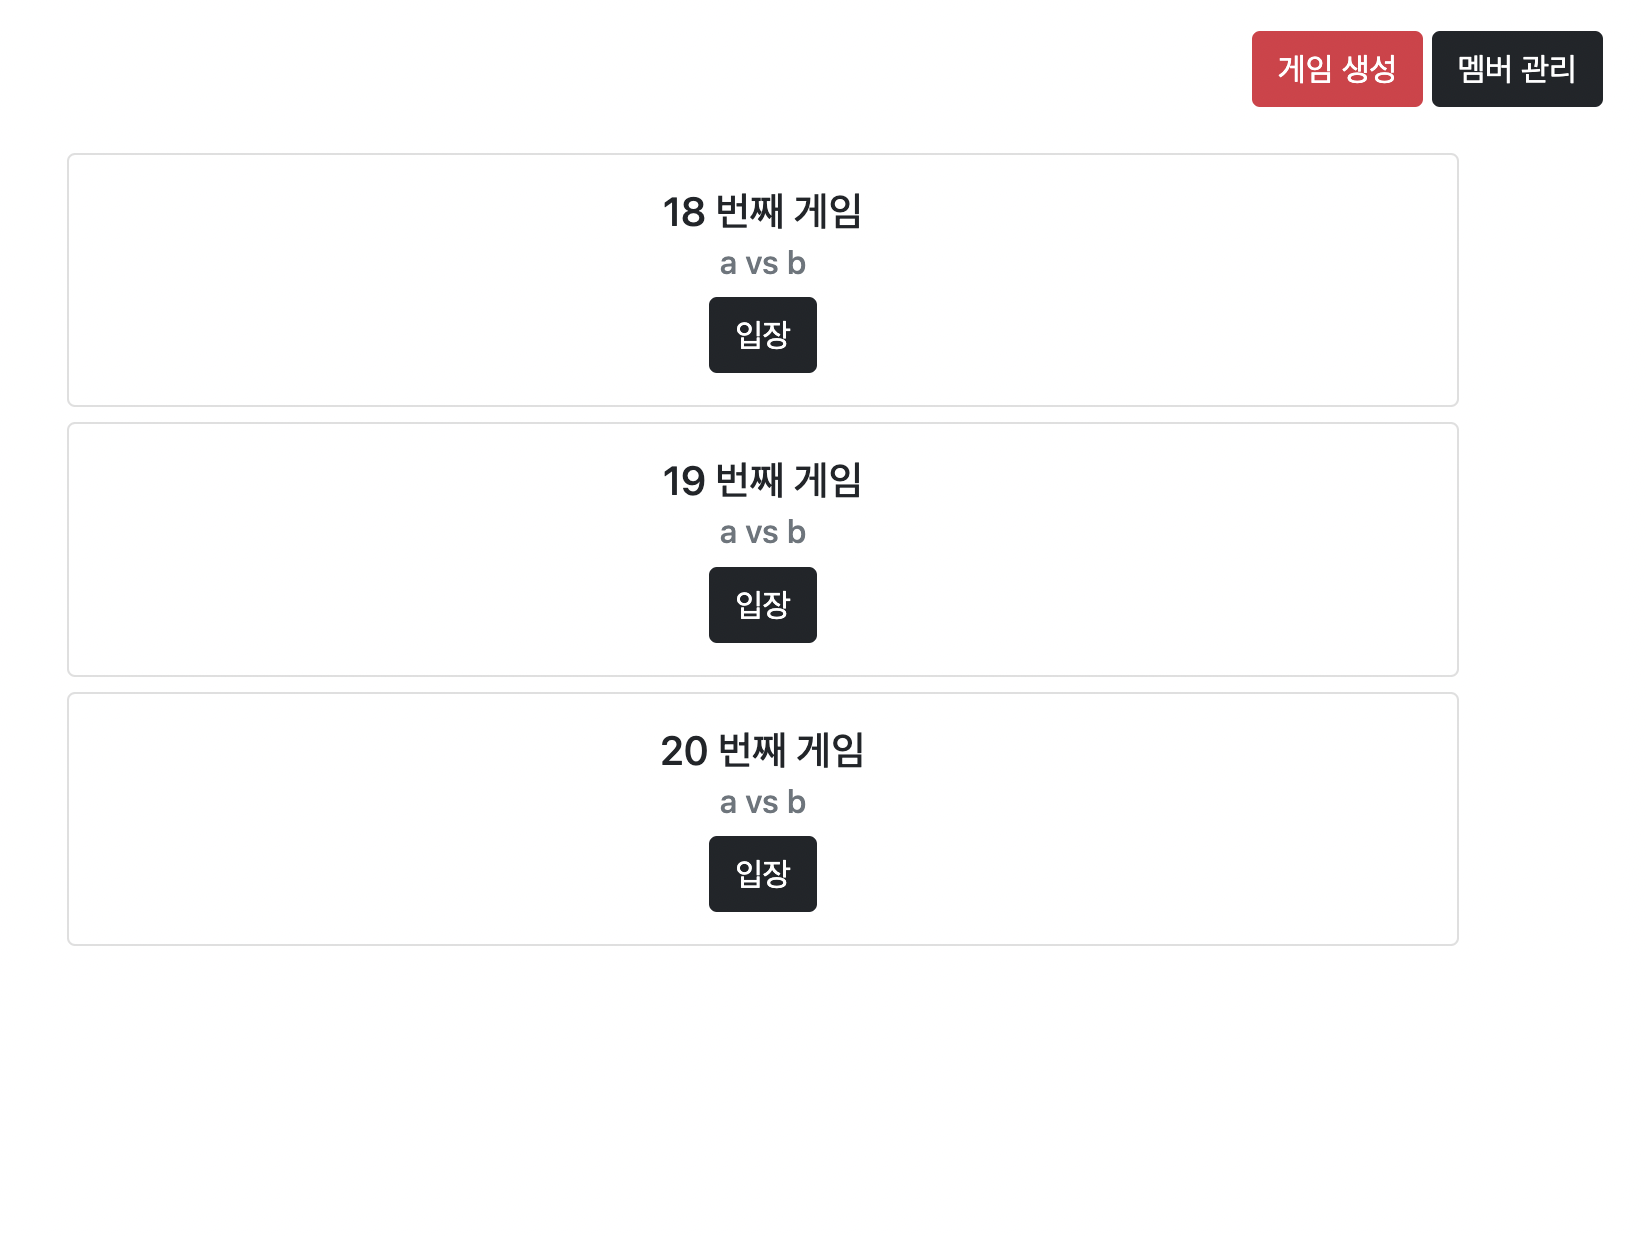
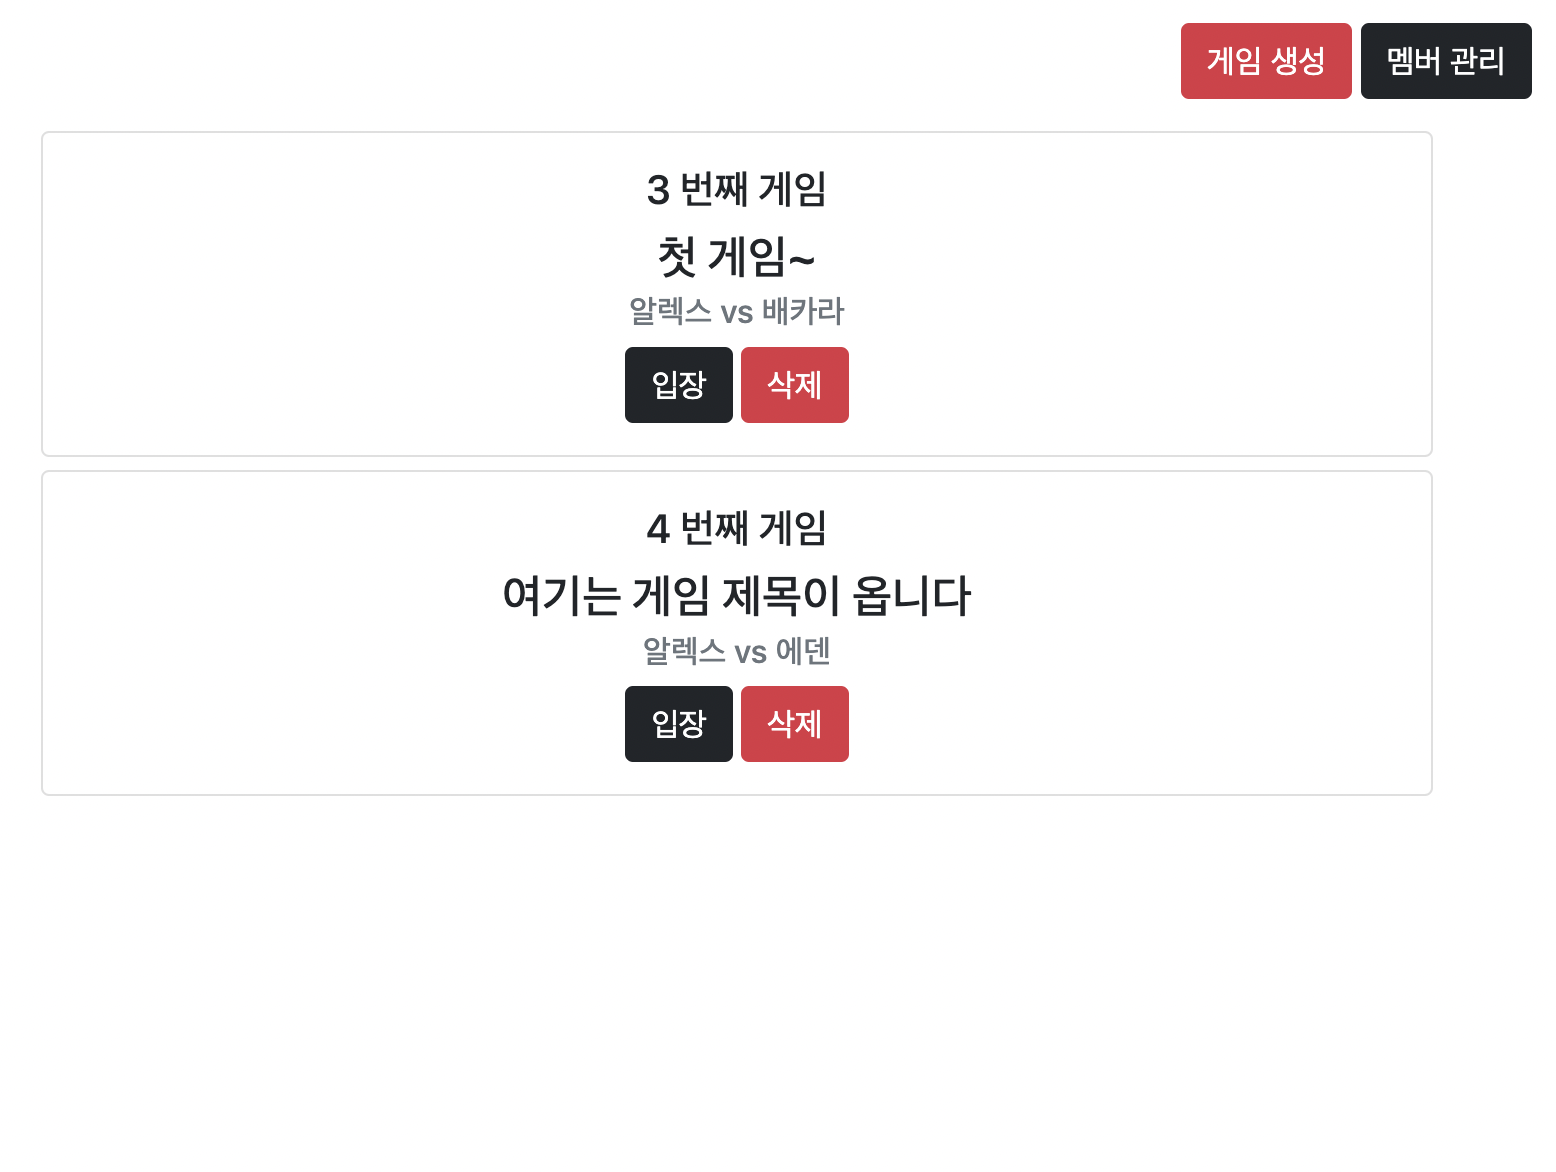
docs: 방 비밀번호 추가, 방 삭제기능 추가에 의한 리드미 문서 변경

Changed region(s): [[0.3085, 0.1229, 0.6478, 0.7372], [0.7712, 0.0, 0.9871, 0.0922]]

diff --git a/README.md b/README.md
@@ -11,6 +11,7 @@
 
 - 현재 게임중인 방 목록이 나타납니다.
     - `입장` 버튼으로 게임중인 방에 입장할 수 있습니다.
+    - `삭제` 버튼으로 진행중인 게임을 삭제할 수 있습니다.
 - 페이지 상단의 `게임 생성` 버튼으로 새 게임을 생성할 수 있습니다.
     - `게임 생성`버튼 클릭 시 게임 생성을 위한 모달이 나타납니다.
 - 페이지 상단의 `멤버 관리` 버튼으로 멤버 관리 페이지로 이동할 수 있습니다.
@@ -19,9 +20,13 @@
 
 ### 게임 진행
 
+<img src="./README-IMAGE/input-password.png" alt="게임 비밀번호 입력">
 <img src="./README-IMAGE/play.png" alt="게임 진행 페이지">
 <img src="./README-IMAGE/play-score.png" alt="점수 불러오기">
 
+- 방 비밀번호를 입력합니다.
+  - 비밀번호가 틀릴 경우 로비로 리다이렉트됩니다.
+  - 비밀번호가 맞으면 게임을 진행합니다.
 - 체스 게임을 진행합니다.
     - 기물을 클릭하여 원하는 위치로 이동시킬 수 있습니다.
     - 기물을 클릭할 시 선택된 기물의 테두리에 표시가 나타납니다.
